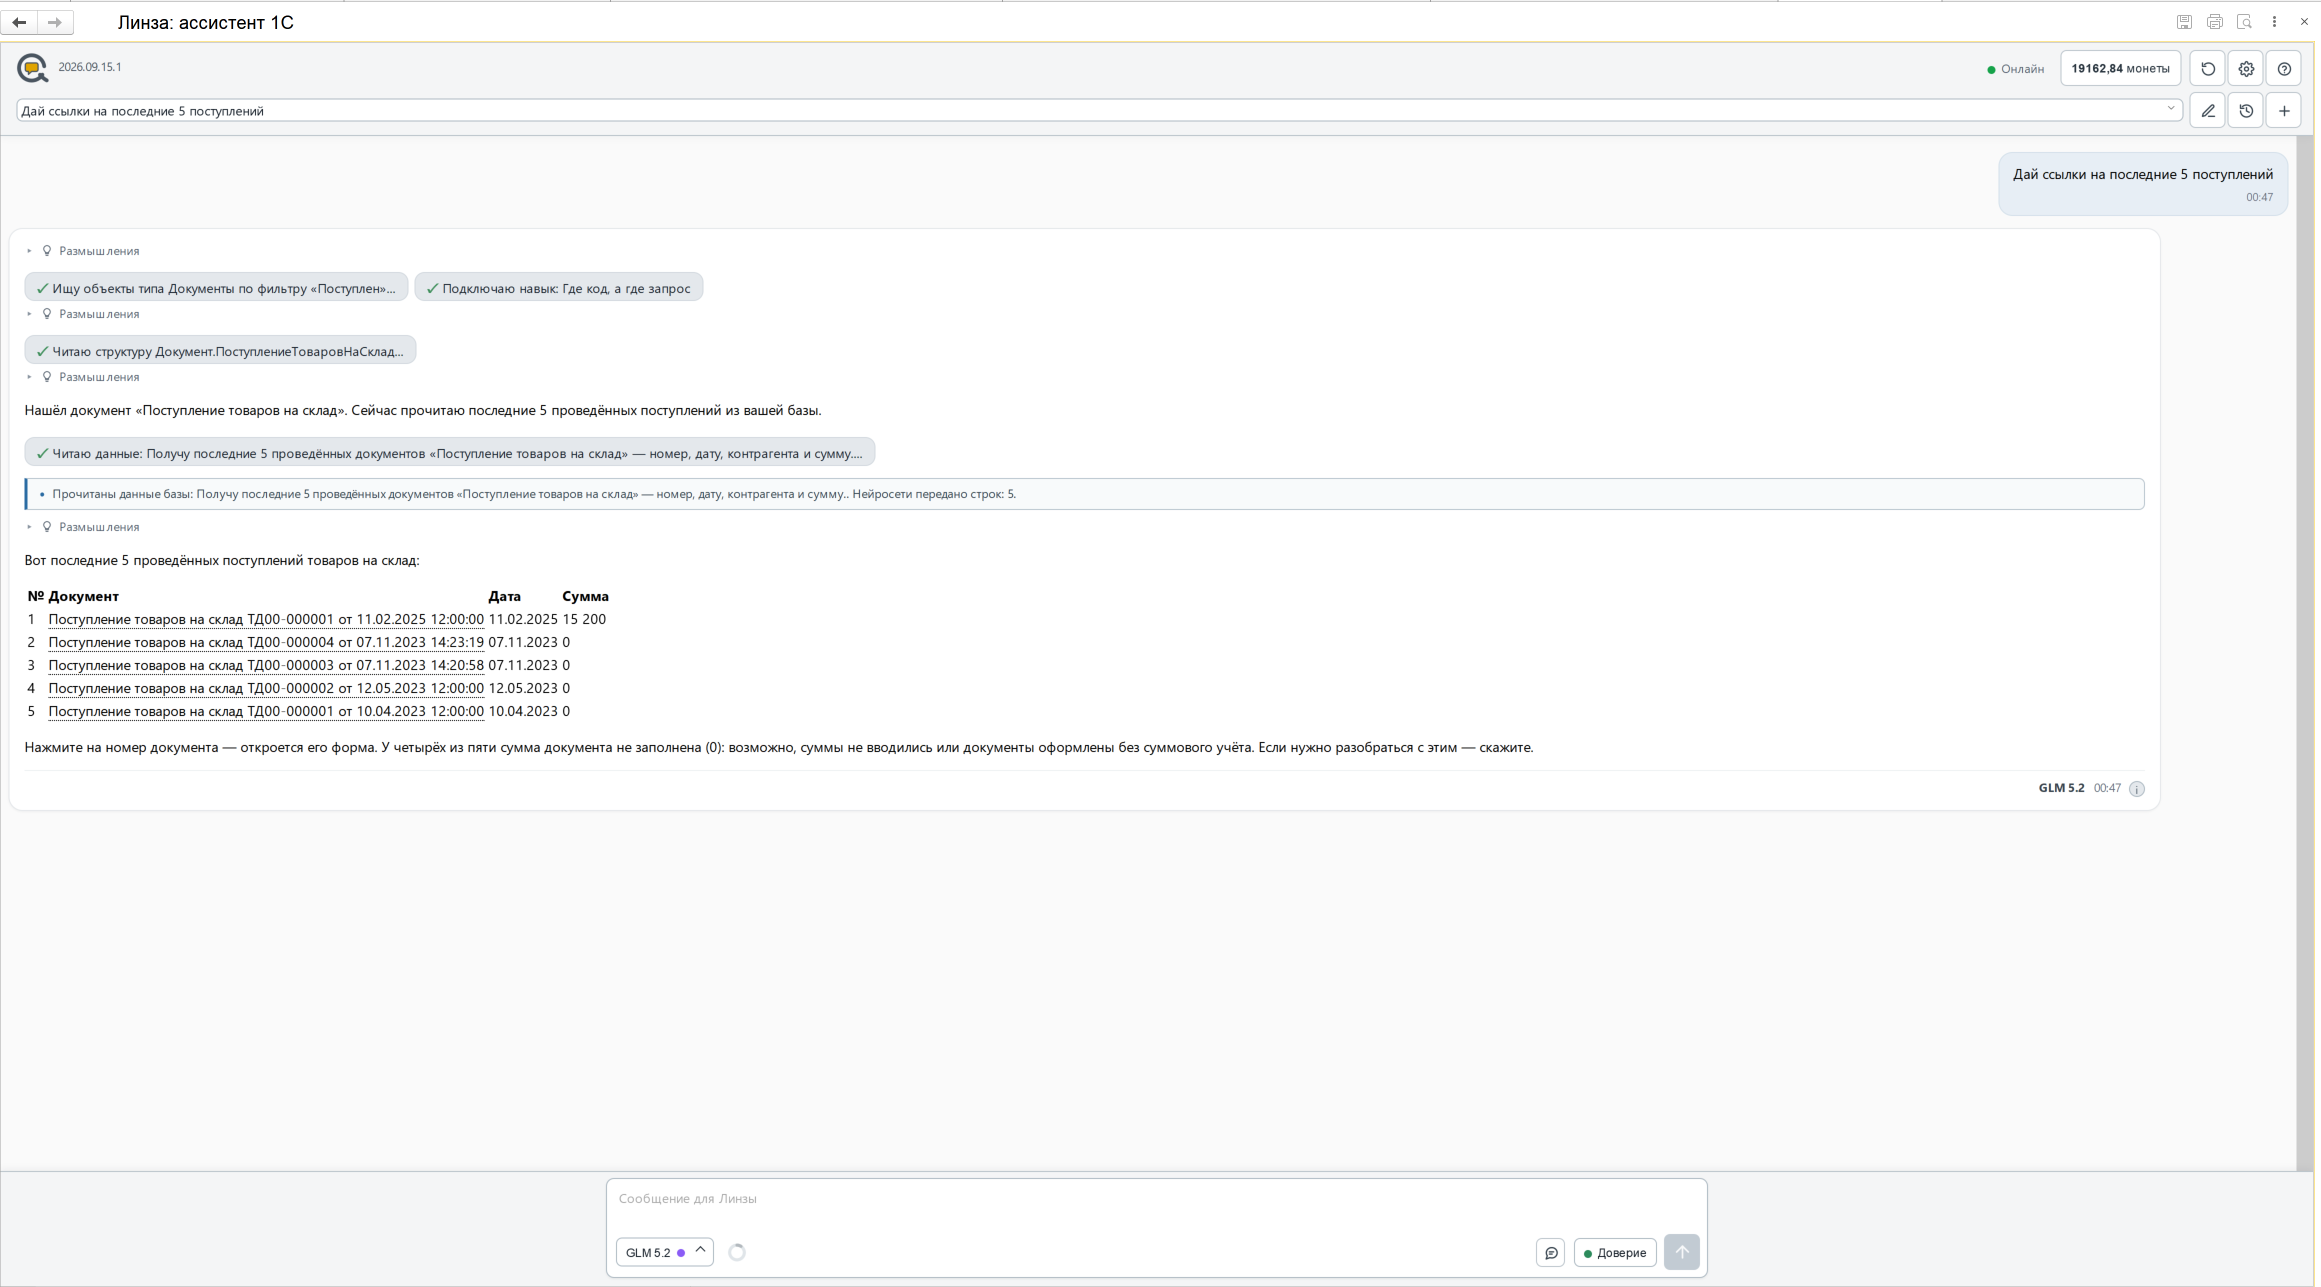
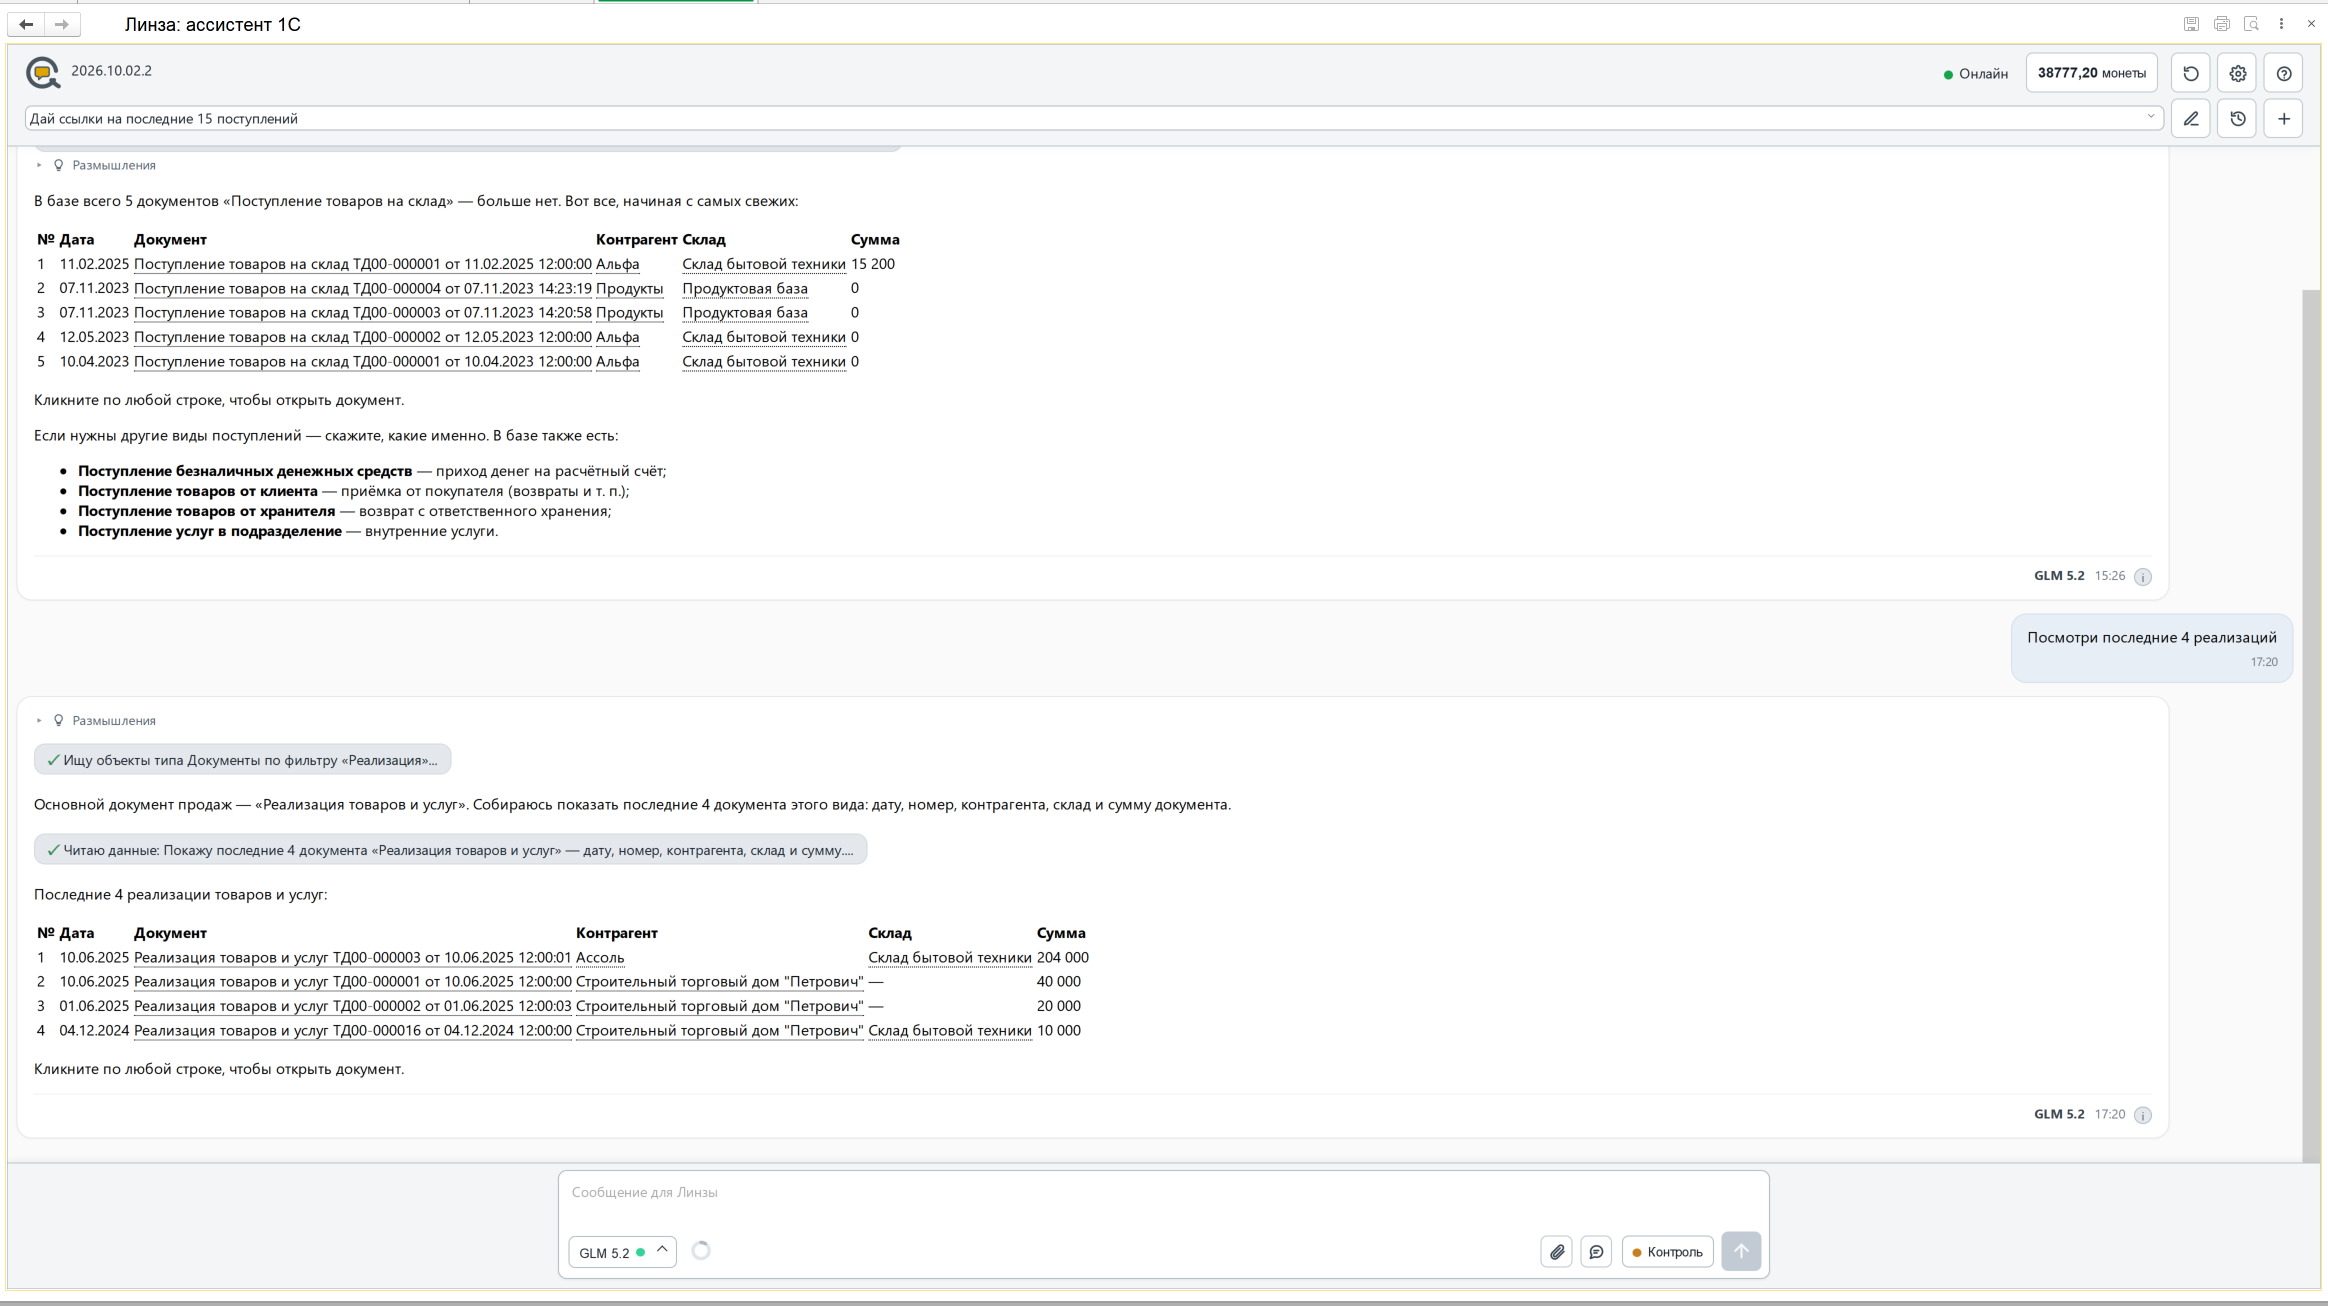
docs: новые кадры версии 2026.10.02.2 в README
Главный кадр - правка данных с проверкой без записи; в «Как это выглядит» -
ссылки в ответе, поиск в интернете, файл от ассистента. Старые кадры 09.15.1
заменены, кадр с выпиской счета снят.

Refs M-000095

diff --git a/README.md b/README.md
@@ -20,12 +20,13 @@
 продукт остаются у правообладателя, условия в [LICENSE.md](LICENSE.md).
 
 <p align="center">
-  <img src="docs/screens/assistant-invoice.png" alt="Попросили выписать счет - ассистент нашел контрагента, взял цену из прошлых счетов и создал документ" width="900">
+  <img src="docs/screens/assistant-edit.png" alt="Заказ не проводился - ассистент нашел пустое обязательное поле, проверил исправление без записи, выполнил его в базе и провел заказ" width="900">
 </p>
 
-Попросили выписать счет - ассистент нашел контрагента, взял цену часа из прошлых счетов и
-создал документ сам, в режиме «Доверие». Каждый шаг виден в ленте: проверил код без записи,
-выполнил в базе, отчитался.
+Заказ не проводился. Ассистент проверил в базе, что дата сохранилась, нашел пустое
+обязательное поле «Проект», которого нет на форме, проверил исправление без записи, заполнил
+поле и провел заказ - в режиме «Доверие». Каждый шаг виден в ленте, а в ответе сказано, что
+данные изменены.
 
 ## Зачем это
 
@@ -52,8 +53,30 @@
   нейросети.
 - **Нейросеть под задачу.** Claude, GPT, Gemini, DeepSeek и другие - выбор в строке ввода.
 
+## Как это выглядит
+
+**Ответ таблицей, ссылки живые.** Попросили посмотреть последние четыре реализации - ассистент
+прочитал документы и ответил таблицей. Документ, склад и контрагент подчеркнуты: клик открывает
+форму.
+
 <p align="center">
-  <img src="docs/screens/assistant-links.png" alt="Ответ таблицей с живыми ссылками на документы базы" width="900">
+  <img src="docs/screens/assistant-links.png" alt="Ответ таблицей с живыми ссылками на документы и склады базы" width="900">
+</p>
+
+**Идет в интернет и называет источники.** Попросили найти, что нового в 1С в этом месяце.
+Ассистент сделал три поиска, источники свернул в списки под каждым, а в ответе дал ссылки на
+первоисточники.
+
+<p align="center">
+  <img src="docs/screens/assistant-web.png" alt="Поиск в интернете: три запроса, списки найденных источников и ответ со ссылками" width="900">
+</p>
+
+**Знает структуру вашей базы и отдает результат файлом.** Спросили, какие поля обязательны в
+заказе клиента, - ассистент прочитал структуру документа и ответил по вашей конфигурации. Потом
+попросили оформить это файлом: он собрал `.md` и положил в «Все файлы ответа».
+
+<p align="center">
+  <img src="docs/screens/assistant-files.png" alt="Ответ про обязательные поля заказа клиента и созданный ассистентом файл для скачивания" width="900">
 </p>
 
 ## Требования
